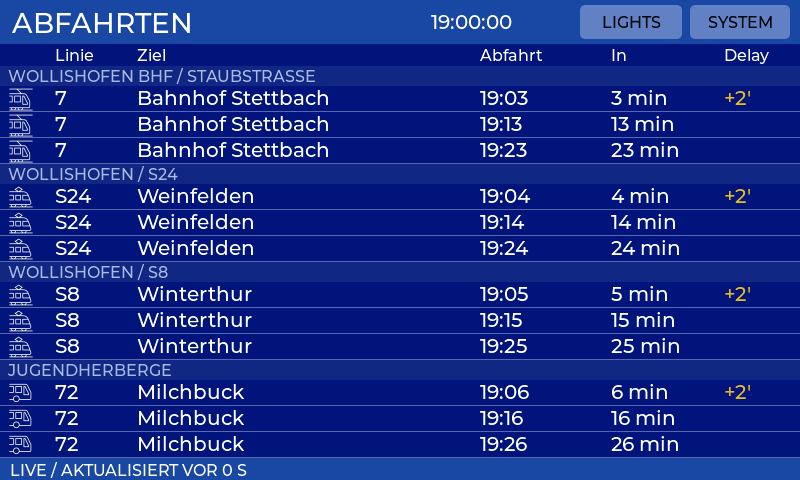
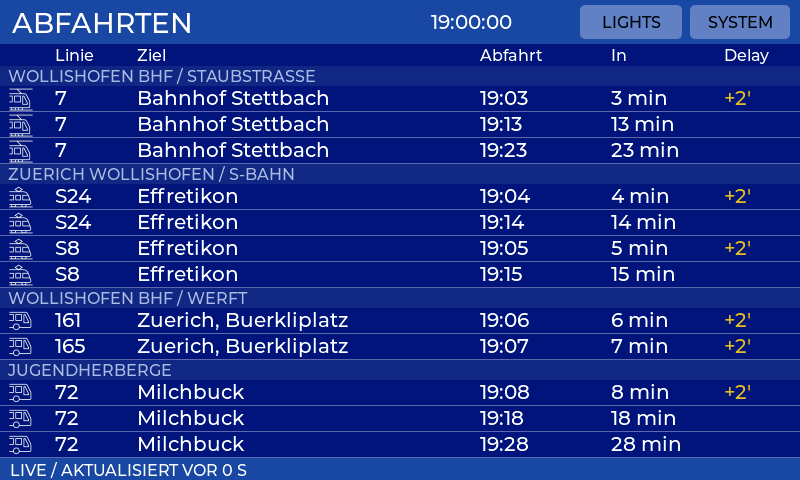
Fix temporary rail termini and add Wollishofen buses

diff --git a/firmware/lcars_ui.h b/firmware/lcars_ui.h
@@ -6,6 +6,7 @@
 #include <ctime>
 #include <array>
 #include <cmath>
+#include <cstring>
 #include <functional>
 #include <string>
 #include <utility>
@@ -61,18 +62,19 @@ class Panel {
     if(clock_ready){time_t stamp=now;tm local{};localtime_r(&stamp,&local);std::strftime(clock,sizeof(clock),"%H:%M:%S",&local);}
     lv_label_set_text(transit_clock_,clock);
     bool errors=false;int64_t oldest=now;
+    size_t row=0;
     for(size_t r=0;r<board.size();++r) {
       const auto &group=board[r];
       const bool stale=group.fetched && now-group.fetched>180;
       const bool available=wifi && clock_ready && group.error.empty() && !stale;
-      auto next=available?transit_next(group,now):std::vector<Departure>{};
+      auto next=available?transit_next(group,now,TRANSIT_ROUTES[r].rows):std::vector<Departure>{};
       if(!available)errors=true;
       if(group.fetched)oldest=std::min(oldest,group.fetched);
-      for(size_t n=0;n<3;++n) {
-        const auto i=r*3+n;
+      for(size_t n=0;n<TRANSIT_ROUTES[r].rows;++n,++row) {
+        const auto i=row;
         std::string destination,time="--:--",minutes="",delay="";
         if(n<next.size()) {
-          destination=next[n].destination;
+          destination=transit_display_text(next[n].destination);
           time_t stamp=next[n].at;tm local{};localtime_r(&stamp,&local);char value[8];
           std::strftime(value,sizeof(value),"%H:%M",&local);time=value;
           const auto remaining=(next[n].at-now+59)/60;
@@ -240,13 +242,17 @@ class Panel {
     label(transit_,"Abfahrt",480,46,white,&lv_font_montserrat_16);
     label(transit_,"In",611,46,white,&lv_font_montserrat_16);
     label(transit_,"Delay",724,46,white,&lv_font_montserrat_16);
-    for(size_t r=0;r<4;++r) {
-      const int y=66+int(r)*98;
-      box(transit_,0,y,800,20,0x102A85,0);
-      label(transit_,TRANSIT_ROUTES[r].station,8,y+1,0xAAB8E1,&lv_font_montserrat_16);
-      for(size_t n=0;n<3;++n) {
-        const auto i=r*3+n;const int row=y+20+int(n)*26;
-        auto *icon=lv_image_create(transit_);lv_image_set_src(icon,r==0?&tram_icon:r==3?&bus_icon:&train_icon);
+    int y=66;size_t row_index=0;
+    const char *last_station=nullptr;
+    for(size_t r=0;r<TRANSIT_ROUTES.size();++r) {
+      if(!last_station || std::strcmp(last_station,TRANSIT_ROUTES[r].station)!=0) {
+        const int header_y=y;y+=20;last_station=TRANSIT_ROUTES[r].station;
+        box(transit_,0,header_y,800,20,0x102A85,0);
+        label(transit_,TRANSIT_ROUTES[r].station,8,header_y+1,0xAAB8E1,&lv_font_montserrat_16);
+      }
+      for(size_t n=0;n<TRANSIT_ROUTES[r].rows;++n,++row_index) {
+        const auto i=row_index;const int row=y;y+=26;
+        auto *icon=lv_image_create(transit_);lv_image_set_src(icon,r==0?&tram_icon:r>=3?&bus_icon:&train_icon);
         lv_obj_set_pos(icon,7,row-1);lv_obj_remove_flag(icon,LV_OBJ_FLAG_CLICKABLE);
         label(transit_,TRANSIT_ROUTES[r].line,55,row+1,white,&lv_font_montserrat_20);
         transit_destination_[i]=label(transit_,n==0?"Laden...":"—",137,row+1,white,&lv_font_montserrat_20);
@@ -302,7 +308,7 @@ class Panel {
     sound_label_=label(system_, "SPEAKER TEST", 315, 235, LILAC, &lv_font_montserrat_16);
     sound_button_=button(system_, "CONTROL SOUND", 315, 258, 311, 56, LILAC, 28);
     bind(sound_button_, [](lv_event_t *) {}, this); // Shared feedback plays the test sound once.
-    label(system_, "FNK0115Q / LCARS 1.6", 0, 318, BLUE, &lv_font_montserrat_16);
+    label(system_, "FNK0115Q / LCARS 1.7", 0, 318, BLUE, &lv_font_montserrat_16);
   }
   void update_volume_label() {
     lv_label_set_text(volume_label_, volume_percent_ == 0 ? "VOLUME: MUTED" :

diff --git a/firmware/transit_model.h b/firmware/transit_model.h
@@ -2,29 +2,49 @@
 #include <algorithm>
 #include <array>
 #include <cstdint>
+#include <cstring>
 #include <cstdio>
 #include <string>
 #include <vector>
 
 namespace lcars {
-struct TransitRoute { const char *station; const char *line; unsigned stop; };
-inline constexpr std::array<TransitRoute,4> TRANSIT_ROUTES{{
-  {"WOLLISHOFEN BHF / STAUBSTRASSE", "7", 0},
-  {"WOLLISHOFEN / S24", "S24", 1},
-  {"WOLLISHOFEN / S8", "S8", 1},
-  {"JUGENDHERBERGE", "72", 2}
+struct TransitRoute { const char *station; const char *line; unsigned stop; unsigned rows; };
+inline constexpr std::array<TransitRoute,6> TRANSIT_ROUTES{{
+  {"WOLLISHOFEN BHF / STAUBSTRASSE", "7", 0, 3},
+  {"ZUERICH WOLLISHOFEN / S-BAHN", "S24", 1, 2},
+  {"ZUERICH WOLLISHOFEN / S-BAHN", "S8", 1, 2},
+  {"WOLLISHOFEN BHF / WERFT", "161", 2, 1},
+  {"WOLLISHOFEN BHF / WERFT", "165", 2, 1},
+  {"JUGENDHERBERGE", "72", 3, 3}
 }};
-inline constexpr std::array<const char*,3> TRANSIT_STOPS{{"8591081","8503009","8591216"}};
+inline constexpr std::array<const char*,4> TRANSIT_STOPS{{
+  "8591081", "8503009", "ch:1:sloid:91080", "8591216"
+}};
 struct Departure { std::string destination; int64_t at{}; int delay{}; };
 struct TransitGroup { std::vector<Departure> departures; std::string error{"Laden..."}; int64_t fetched{}; };
-using TransitBoard = std::array<TransitGroup,4>;
+using TransitBoard = std::array<TransitGroup,TRANSIT_ROUTES.size()>;
+inline std::string transit_display_text(std::string value) {
+  struct Replacement { const char *utf8; const char *ascii; };
+  static constexpr Replacement replacements[]={{"ä","ae"},{"ö","oe"},{"ü","ue"},
+    {"Ä","Ae"},{"Ö","Oe"},{"Ü","Ue"},{"ß","ss"}};
+  for(const auto &replacement:replacements) {
+    size_t at=0;
+    while((at=value.find(replacement.utf8,at))!=std::string::npos) {
+      value.replace(at,std::strlen(replacement.utf8),replacement.ascii);
+      at+=std::strlen(replacement.ascii);
+    }
+  }
+  return value;
+}
 inline bool transit_matches(size_t route, const std::string &line, const std::string &destination) {
   if (route >= TRANSIT_ROUTES.size() || line != TRANSIT_ROUTES[route].line) return false;
   switch(route) {
     case 0:return destination=="Bahnhof Stettbach" || destination=="Stettbach, Bahnhof";
-    case 1:return destination=="Weinfelden" || destination=="Thayngen";
-    case 2:return destination=="Winterthur";
-    case 3:return destination=="Milchbuck" || destination=="Zürich, Milchbuck";
+    case 1:return destination=="Weinfelden" || destination=="Thayngen" || destination=="Effretikon";
+    case 2:return destination=="Winterthur" || destination=="Effretikon";
+    case 3:
+    case 4:return destination=="Bürkliplatz" || destination=="Zürich, Bürkliplatz";
+    case 5:return destination=="Milchbuck" || destination=="Zürich, Milchbuck";
   }
   return false;
 }
@@ -59,10 +79,10 @@ inline void transit_add(TransitGroup &g, Departure d, int64_t now) {
   std::sort(g.departures.begin(),g.departures.end(),[](const Departure &a,const Departure &b){return a.at<b.at;});
   if(g.departures.size()>12)g.departures.resize(12);
 }
-inline std::vector<Departure> transit_next(const TransitGroup &g,int64_t now) {
+inline std::vector<Departure> transit_next(const TransitGroup &g,int64_t now,size_t limit=3) {
   std::vector<Departure> result;
   if(!g.error.empty() || !g.fetched || now-g.fetched>180)return result;
-  for(const auto &d:g.departures)if(d.at>now) {result.push_back(d);if(result.size()==3)break;}
+  for(const auto &d:g.departures)if(d.at>now) {result.push_back(d);if(result.size()==limit)break;}
   return result;
 }
 }

diff --git a/tests/ui_smoke.cpp b/tests/ui_smoke.cpp
@@ -80,17 +80,20 @@ int main() {
   setenv("TZ","Europe/Zurich",1);tzset();
   lcars::TransitBoard transit;
   const auto transit_now=lcars::transit_timestamp("2026-09-13T17:00:00Z");
-  for(size_t r=0;r<4;++r) {
+  for(size_t r=0;r<lcars::TRANSIT_ROUTES.size();++r) {
     transit[r].error="";transit[r].fetched=transit_now;
-    for(int n=0;n<3;++n)transit[r].departures.push_back({r==0?"Bahnhof Stettbach":r==1?"Weinfelden":r==2?"Winterthur":"Milchbuck",transit_now+int64_t(180+r*60+n*600),n==0?2:0});
+    for(size_t n=0;n<lcars::TRANSIT_ROUTES[r].rows;++n)
+      transit[r].departures.push_back({r==0?"Bahnhof Stettbach":r==1?"Effretikon":r==2?"Effretikon":
+        r==3||r==4?"Zürich, Bürkliplatz":"Milchbuck",transit_now+int64_t(180+r*60+n*600),n==0?2:0});
   }
   lcars::panel.transit_tick(transit,transit_now,true);
-  assert(find(root,"ABFAHRTEN")&&find(root,"Bahnhof Stettbach")&&find(root,"Weinfelden")&&find(root,"Winterthur")&&find(root,"Milchbuck"));
+  assert(find(root,"ABFAHRTEN")&&find(root,"Bahnhof Stettbach")&&find(root,"S24")&&find(root,"S8")&&
+    find(root,"161")&&find(root,"165")&&find(root,"Zuerich, Buerkliplatz")&&find(root,"Milchbuck"));
   assert(find(root,"19:00:00")&&find(root,"19:03"));snapshot("transit");
   lcars::panel.transit_tick(transit,transit_now,false);
   assert(find(root,"WLAN nicht verbunden")&&!find(root,"Bahnhof Stettbach"));snapshot("transit-offline");
   lcars::panel.transit_tick(transit,transit_now+181,true);
-  assert(find(root,"Daten veraltet")&&!find(root,"Weinfelden"));
+  assert(find(root,"Daten veraltet")&&!find(root,"Effretikon"));
   lcars::panel.transit_tick(transit,transit_now,true);
   refresh();assert(sounds.empty()); // Building and rendering never play a sound.
   click("SYSTEM");assert(sounds.size()==1);
@@ -140,7 +143,7 @@ int main() {
   lcars::panel.connection(false,false);click("CONTROL SOUND");assert(sounds.size()==action_sound_before+2);
   lcars::panel.sound_status(false);assert(find(root,"SPEAKER TEST"));snapshot("1.4-system");
   lv_area_t version_area, system_area;
-  auto *version_label=find(root,"FNK0115Q / LCARS 1.6");assert(version_label);
+  auto *version_label=find(root,"FNK0115Q / LCARS 1.7");assert(version_label);
   lv_obj_get_coords(version_label,&version_area);
   lv_obj_get_coords(lv_obj_get_parent(version_label),&system_area);
   assert(version_area.y2<=system_area.y2);

diff --git a/tests/transit_test.cpp b/tests/transit_test.cpp
@@ -11,11 +11,20 @@ int main() {
   assert(transit_matches(0,"7","Bahnhof Stettbach"));
   assert(!transit_matches(0,"7","Wollishoferplatz"));
   assert(transit_matches(1,"S24","Thayngen"));
+  assert(transit_matches(1,"S24","Effretikon"));
   assert(!transit_matches(1,"S24","Zug"));
   assert(!transit_matches(1,"24","Weinfelden"));
   assert(transit_matches(2,"S8","Winterthur"));
-  assert(transit_matches(3,"72","Milchbuck"));
-  assert(!transit_matches(3,"72","Morgental"));
+  assert(transit_matches(2,"S8","Effretikon"));
+  assert(!transit_matches(2,"S8","Pfäffikon SZ"));
+  assert(transit_matches(3,"161","Zürich, Bürkliplatz"));
+  assert(transit_matches(4,"165","Bürkliplatz"));
+  assert(!transit_matches(4,"165","Rüschlikon, Park im Grüene"));
+  assert(transit_matches(5,"72","Milchbuck"));
+  assert(!transit_matches(5,"72","Morgental"));
+  assert(transit_display_text("Zürich, Bürkliplatz") == "Zuerich, Buerkliplatz");
+  size_t display_rows=0;for(const auto &route:TRANSIT_ROUTES)display_rows+=route.rows;
+  assert(display_rows==12&&TRANSIT_ROUTES[1].rows==2&&TRANSIT_ROUTES[2].rows==2);
   TransitBoard board;
   const std::string json=R"([
     {"number":"S24","to":"Weinfelden","category":"B","departure":"2026-09-13T17:03:00Z","delay":3},
@@ -33,6 +42,14 @@ int main() {
   board[1].fetched=now+60;
   next=transit_next(board[1],now+60);assert(next[0].at==now+120); // Departed services disappear.
   board[1].error="HTTP 401";assert(transit_next(board[1],now+60).empty());
+  const std::string buses=R"([
+    {"number":"161","to":"Zürich, Bürkliplatz","category":"B","departure":"2026-09-13T17:05:00Z","delay":0},
+    {"number":"165","to":"Zürich, Bürkliplatz","category":"B","departure":"2026-09-13T17:08:00Z","delay":1},
+    {"number":"165","to":"Rüschlikon, Park im Grüene","category":"B","departure":"2026-09-13T17:09:00Z","delay":0}
+  ])";
+  assert(transit_parse(buses,2,now,board));
+  assert(board[3].departures.size()==1&&board[4].departures.size()==1);
+  assert(transit_next(board[3],now,1).size()==1);
   assert(!transit_parse("{}",1,now,board));
   assert(!transit_parse("[{\"number\":\"S8\"}]",1,now,board));
   assert(!transit_parse("[] trailing",1,now,board));

diff --git a/docs/transit-api.md b/docs/transit-api.md
@@ -1,7 +1,7 @@
 # Transit API integration notes
 
 Verified from the companion `transit-board` project's source and live HTTPS
-requests on 2026-09-13. Controller integration is now installed in 1.5.1;
+requests on 2026-09-13 and 2026-09-19. Controller integration is now installed in 1.7.0;
 the transit service itself was not changed.
 
 ## Access
@@ -33,7 +33,7 @@ API contract.
 | `/connections` | `from`, `to`, `limit` (default 6) | Journey array |
 
 Example: `GET /api/stationboard?stop=8503009&limit=6` with the bearer header.
-All three station IDs below returned HTTP 200 with six departures in live tests.
+All four station IDs below returned HTTP 200 in live tests.
 Six departures occupied about 1.7 KB in the rail-stop response.
 
 Departure fields include `number` (e.g. `S24`, `S8`, `7`, `72`), `to`,
@@ -57,15 +57,24 @@ board preferences through any of the routes above.
 | Board | Stop ID | Intended direction from local config |
 | --- | --- | --- |
 | Wollishofen Bhf/Staubstrasse tram | `8591081` | Stettbach |
-| Wollishofen S24 | `8503009` | Weinfelden / Thayngen |
-| Wollishofen S8 | `8503009` | Winterthur |
+| Wollishofen S24 | `8503009` | Weinfelden / Thayngen; Effretikon when temporarily shortened |
+| Wollishofen S8 | `8503009` | Winterthur; Effretikon when temporarily shortened |
+| Wollishofen Bhf/Werft 161 | `ch:1:sloid:91080` | Zürich, Bürkliplatz |
+| Wollishofen Bhf/Werft 165 | `ch:1:sloid:91080` | Zürich, Bürkliplatz |
 | Jugendherberge bus | `8591216` | Milchbuck |
 
-The user confirmed these four selections. Firmware 1.5.1 queries the three
-distinct stops with limit 60, filters exact approved line/destination pairs,
-orders by estimated departure timestamp and displays the next three in each
-group. Approved alternate spellings above are explicitly recognized. Icons
-are assigned by the four known routes, without relying on the category field.
+Firmware 1.7.0 queries the four distinct stops with limit 60, filters exact
+approved line/destination pairs and orders them by estimated departure time.
+The twelve rows are allocated 3/2/2/1/1/3 to routes 7/S24/S8/161/165/72.
+Approved alternate spellings and the verified temporary Effretikon terminus
+are explicitly recognized. Icons are assigned by known routes without relying
+on the category field.
+
+On 2026-09-19, the API still returned line IDs `S24` and `S8` at stop
+`8503009`, but both northbound services terminated at `Effretikon`. The old
+exact direction filters only accepted Weinfelden/Thayngen and Winterthur, so
+the controller correctly fetched the board but displayed no matching trains.
+This was a destination-filter issue, not a weekend-specific line or stop ID.
 
 The controller uses ESP-IDF HTTPS with the trusted CA bundle and redirects
 disabled. SNTP sets the clock; Europe/Zurich governs displayed local times.

diff --git a/README.md b/README.md
@@ -5,17 +5,17 @@ transport, built for the **Freenove FNK0115Q** ESP32-S3 5-inch display.
 
 The home controls use a Star Trek: The Next Generation-inspired LCARS interface.
 The transit page follows the local departure-board style: blue background,
-white transport icons and yellow delays. **Version 1.6.0** is running on the
+white transport icons and yellow delays. **Version 1.7.0** is running on the
 assembled device, with updates installed over Wi-Fi.
 
-![Transit layout with four routes and three departures each](docs/images/transit.png)
+![Transit layout with twelve selected departures](docs/images/transit.png)
 
 *Layout preview rendered from the actual LVGL interface; the times are test data.*
 
 ## Features
 
-- **Twelve departures at a glance:** three upcoming services for each selected
-  tram, S-Bahn or bus route, with destination, departure time, countdown and delay.
+- **Twelve departures at a glance:** selected tram, S-Bahn and bus services,
+  with destination, departure time, countdown and delay.
 - **Home Assistant lights:** Living Room, Kitchen, Hallway, Dining Table and
   Entry Hall, with separate power and submenu buttons.
 - **Living Room scenes:** 18 scene selections and a brightness slider.
@@ -131,16 +131,18 @@ The companion service at `https://transit.tribecans.com/api` requires a bearer
 token. Set **`TRANSIT_API_KEY`** in `.env`; the service and its credentials are
 not included in this repository. See the [API contract and notes](docs/transit-api.md).
 
-| Route | Direction | Stop ID |
-| --- | --- | --- |
-| Tram 7 | Bahnhof Stettbach | `8591081` |
-| S24 | Weinfelden / Thayngen | `8503009` |
-| S8 | Winterthur | `8503009` |
-| Bus 72 | Milchbuck | `8591216` |
+| Route | Direction | Stop ID | Rows |
+| --- | --- | --- | ---: |
+| Tram 7 | Bahnhof Stettbach | `8591081` | 3 |
+| S24 | Weinfelden / Thayngen / temporary Effretikon terminus | `8503009` | 2 |
+| S8 | Winterthur / temporary Effretikon terminus | `8503009` | 2 |
+| Bus 161 | Zürich, Bürkliplatz | `ch:1:sloid:91080` | 1 |
+| Bus 165 | Zürich, Bürkliplatz | `ch:1:sloid:91080` | 1 |
+| Bus 72 | Milchbuck | `8591216` | 3 |
 
 Change route selection in [`firmware/transit_model.h`](firmware/transit_model.h).
-The client requests each of the three distinct stops once a minute, with up to
-60 results per stop, then selects the next three matching departures per route.
+The client requests each of the four distinct stops once a minute, with up to
+60 results per stop, then selects the configured number of departures per route.
 The service may cache results for two minutes. Countdowns update every second;
 SNTP supplies the clock and Europe/Zurich controls local time and daylight saving.
 
